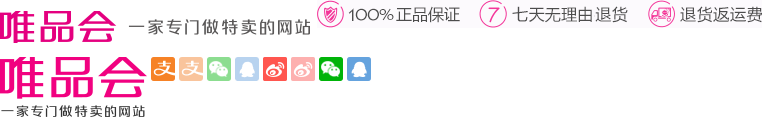
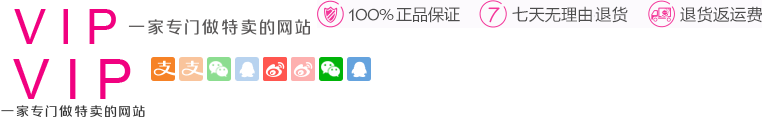
登陆图片

Changed region(s): [[0.0, 0.4872, 0.2113, 0.8462], [0.0, 0.0769, 0.1509, 0.3846]]

diff --git a/css/common/header.css b/css/common/header.css
@@ -73,7 +73,7 @@
 		.top-nav-list .top-more-box p a{border: none;background: #FFF;}
 		/*分享--end*/		
 		/*logo*/
-		.header-logo-left{cursor:pointer;width: 266px;height: 78px;background:url("../../img/index/vip_03.png") no-repeat center center;position: absolute;top:18px;left:-50px;}
+		.header-logo-left{cursor:pointer;width: 266px;height: 78px;background:url("../../img/index/vip_3.png") no-repeat center center;position: absolute;top:10px;left:-50px;}
 		.header-logo-right{width:111px;height: 29px;z-index:12;padding-left:10px;padding-top:10px;float:right;border:1px solid #FFFFFF;background-color: #FFFFFF;;margin-right:0px;margin-top: 30px;}
 		.header-logo-right:hover .header-logo-right-tip{display:block;}
 		.header-logo-right:hover{cursor:pointer;border-top:solid 1px #999999;border-right:solid 1px #999999;border-left:solid 1px #999999;border-bottom: solid 1px #FFFFFF;}
